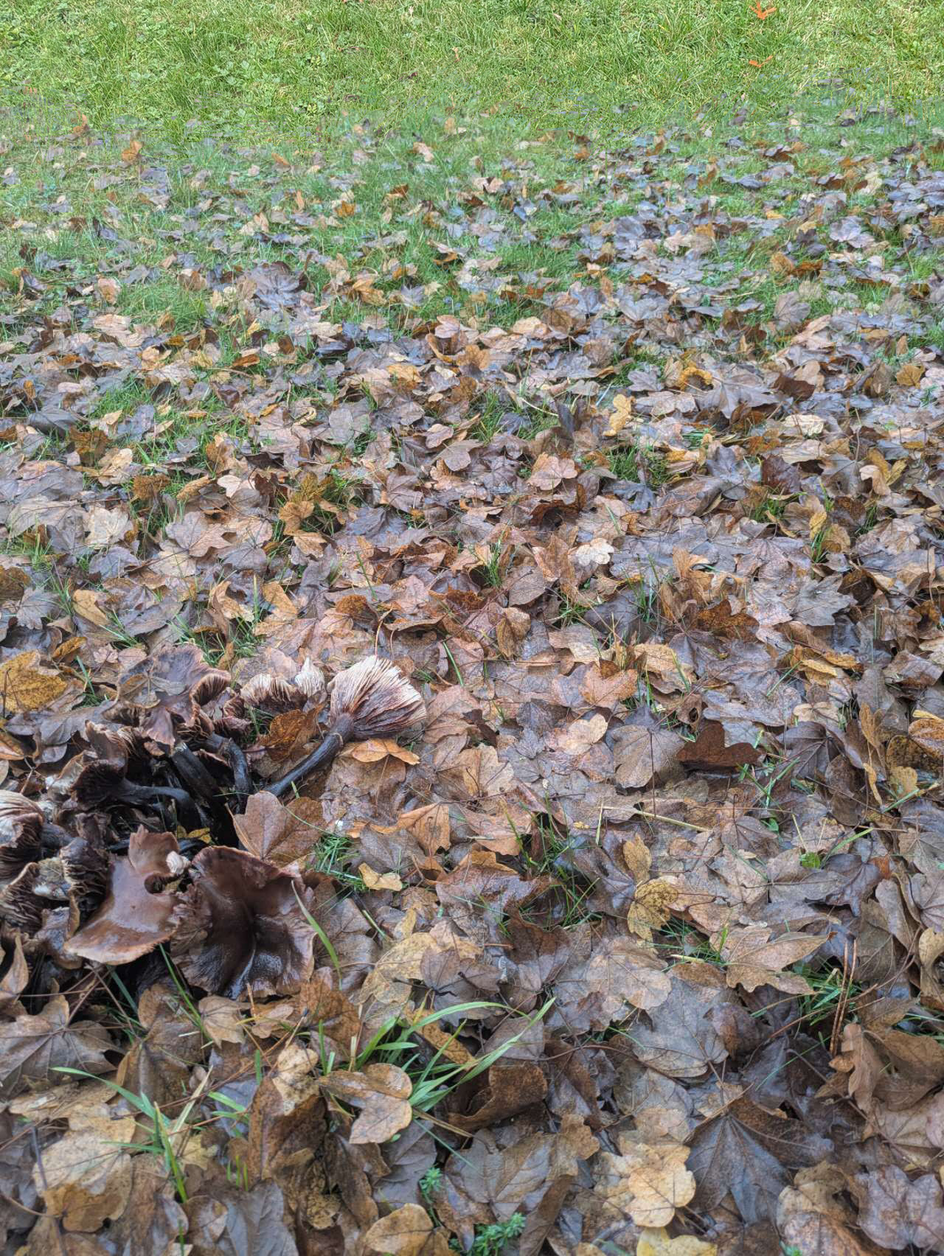
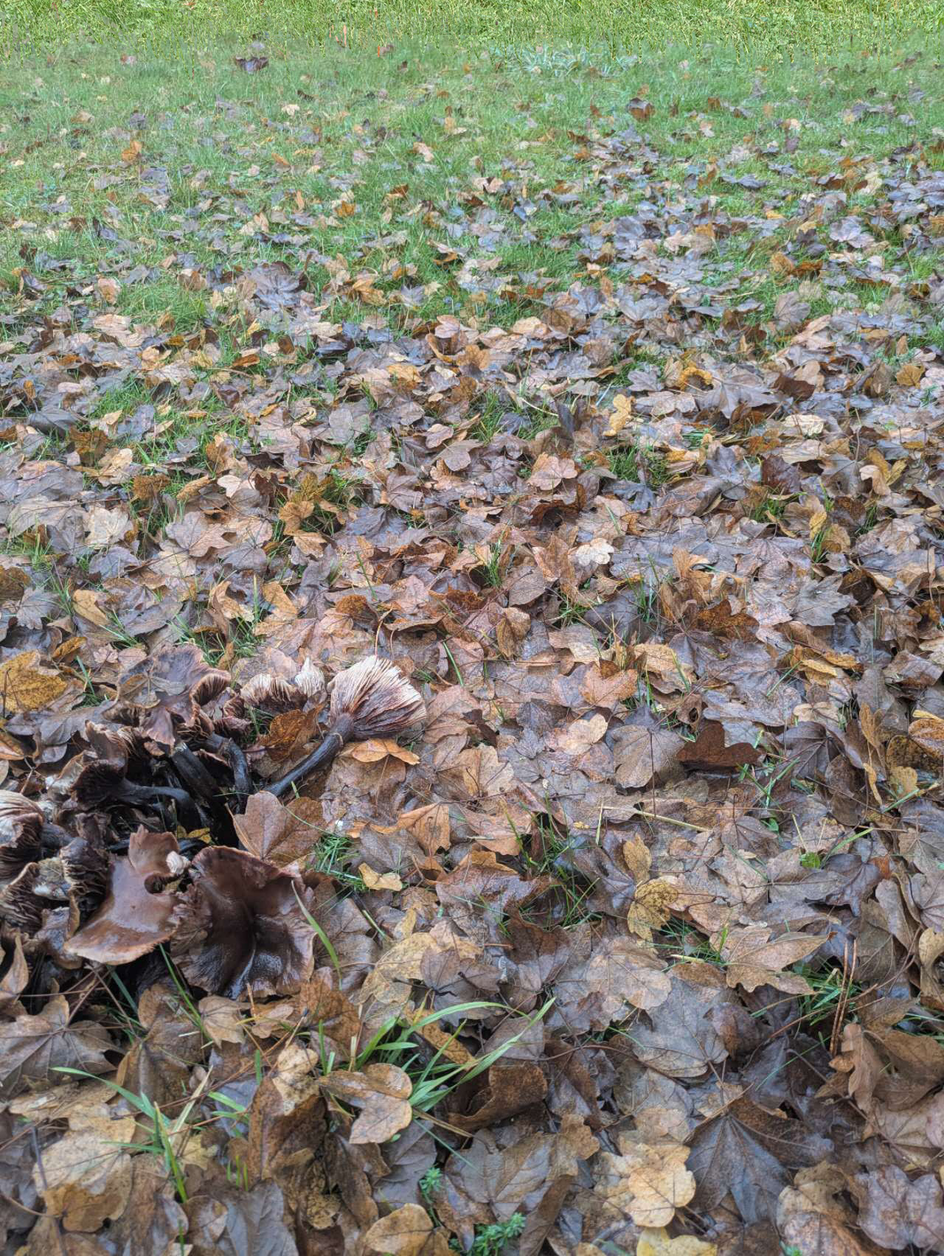
detailin1page

Changed region(s): [[0.0, 0.0, 1.0, 0.1555]]

diff --git a/script.js b/script.js
@@ -4,7 +4,7 @@ let currentPageIndex = 0;
 let trackPages = [];
 let allPages = [];
 let eyeLockUntil = 0;  // 首屏阶段的冷却时间戳，防止同一轮滚动直接翻页
-let eyeStage = 0;      // 0 初始, 1 显示 sheepeye, 2 溶解, 3 可翻页
+let eyeStage = 0;      // 0 初始, 1 显示 sheepeye, 2 溶解+hero, 3 可翻页
 let globalScrollLockUntil = 0; // 全局冷却，任意滚动翻页后生效
 
 function easeInOutQuad(t) {
@@ -93,12 +93,14 @@ window.addEventListener('DOMContentLoaded', () => {
 
   // Wheel 导航 + 首屏分阶段
   const EYE_COOLDOWN = 650;
+  const HERO_REVEAL_COOLDOWN = 900; // 第二次下拉后的额外冷冻，避免直接翻页
   const PAGE_AFTER_MAXI_COOLDOWN = 1000; // Maxi5 -> 下一页额外冷却
 
-  function setEyeCooldown() {
+  function setEyeCooldown(extra = 0) {
     const now = performance.now();
-    eyeLockUntil = now + EYE_COOLDOWN;
-    globalScrollLockUntil = Math.max(globalScrollLockUntil, now + EYE_COOLDOWN);
+    const lock = now + EYE_COOLDOWN + extra;
+    eyeLockUntil = lock;
+    globalScrollLockUntil = Math.max(globalScrollLockUntil, lock);
   }
 
   window.addEventListener('wheel', e => {
@@ -127,13 +129,13 @@ window.addEventListener('DOMContentLoaded', () => {
         eyeStage = 2;
         eyeLayers.dissolveMid();
         eyeLayers.showText();
-        setEyeCooldown();
+        window.dispatchEvent(new Event('hero-start'));
+        setEyeCooldown(HERO_REVEAL_COOLDOWN);
         return;
       }
       if (eyeStage === 2) {
         e.preventDefault();
         eyeStage = 3;
-        window.dispatchEvent(new Event('hero-start'));
         setEyeCooldown();
         globalScrollLockUntil = Math.max(globalScrollLockUntil, performance.now() + PAGE_AFTER_MAXI_COOLDOWN);
         goToPage(1);
